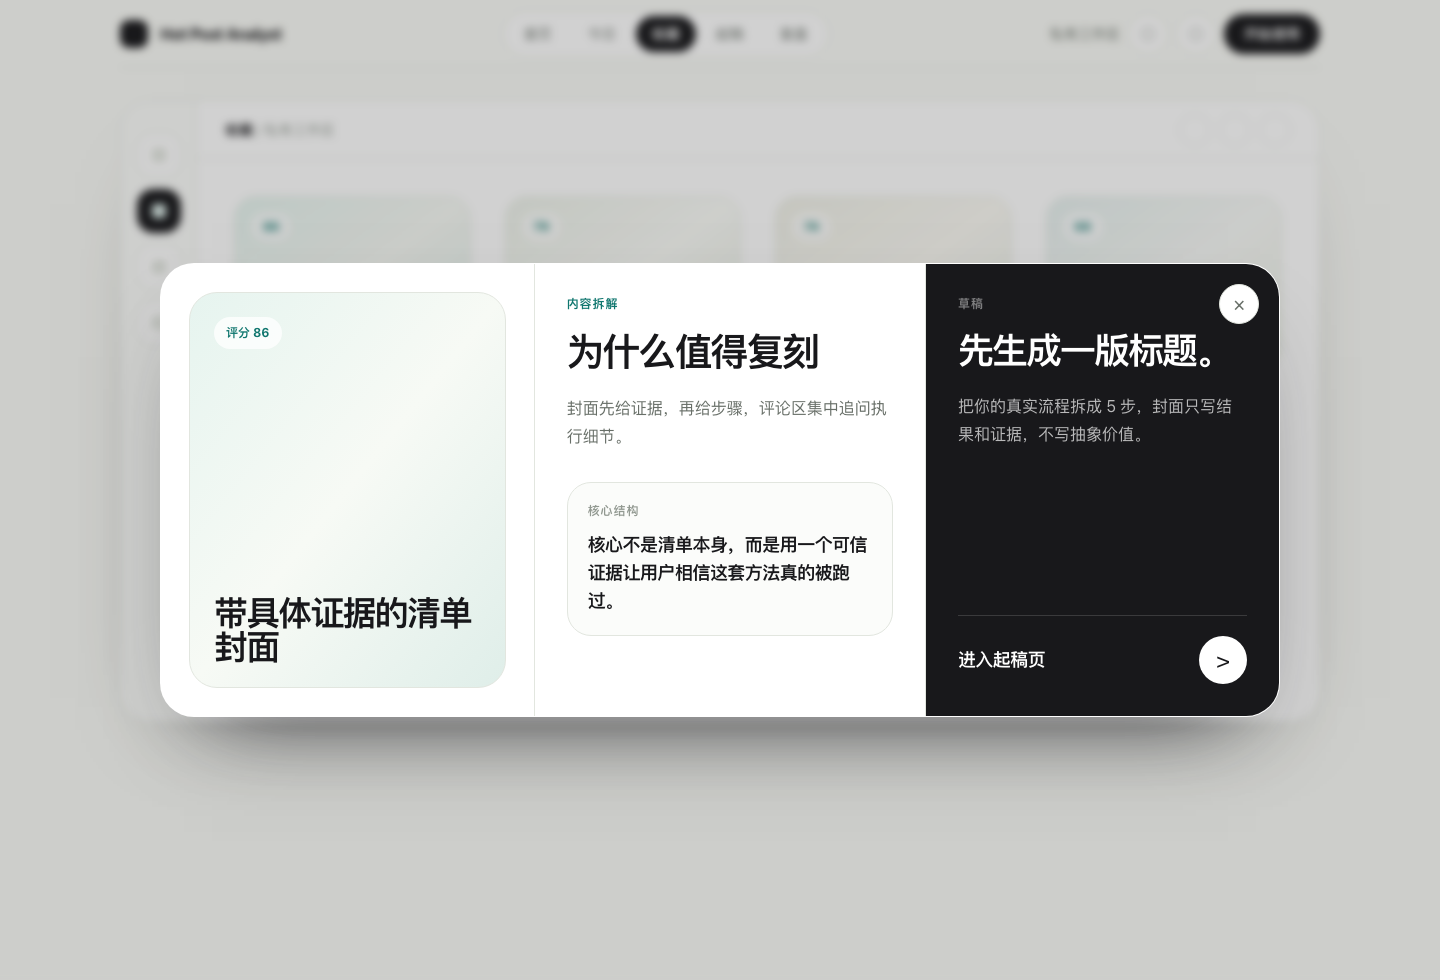
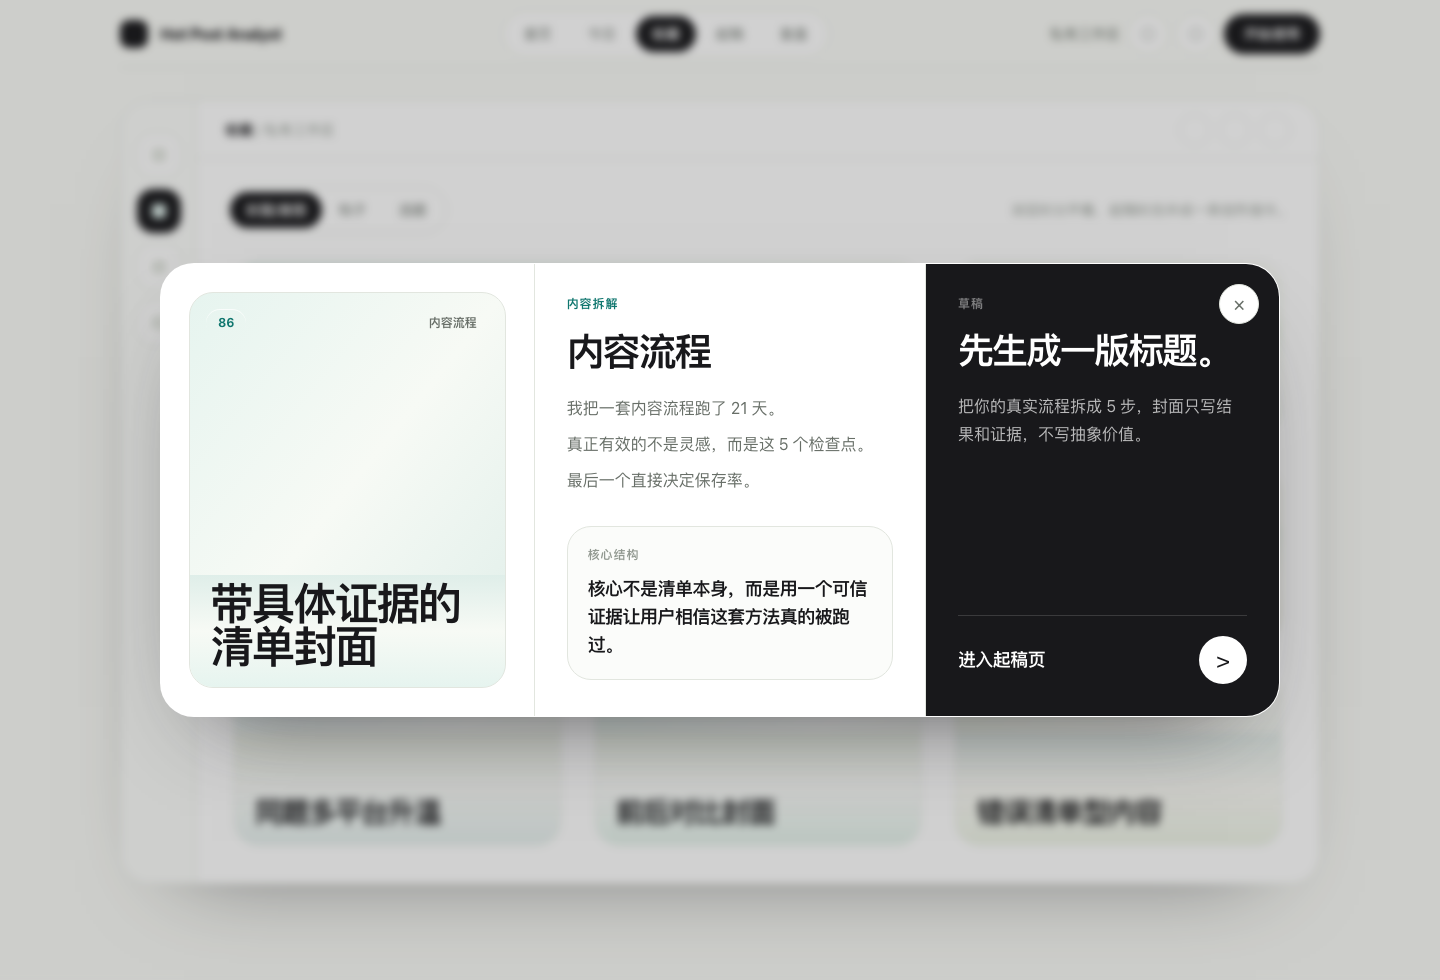
Add saved tri-view cover design

diff --git a/src/App.tsx b/src/App.tsx
@@ -5,11 +5,15 @@ type SavedPost = {
   id: string;
   score: string;
   title: string;
+  hookLines: string[];
+  topic: string;
+  topicCount: number;
   signal: string;
   content: string;
   draft: string;
   palette: string;
 };
+type SavedMode = 'cover' | 'hook' | 'topic';
 
 const views: Array<{ id: ViewId; label: string }> = [
   { id: 'landing', label: '首页' },
@@ -31,6 +35,9 @@ const savedPosts: SavedPost[] = [
     id: 'proof-list',
     score: '86',
     title: '带具体证据的清单封面',
+    hookLines: ['我把一套内容流程跑了 21 天。', '真正有效的不是灵感，而是这 5 个检查点。', '最后一个直接决定保存率。'],
+    topic: '内容流程',
+    topicCount: 7,
     signal: '封面先给证据，再给步骤，评论区集中追问执行细节。',
     content: '核心不是清单本身，而是用一个可信证据让用户相信这套方法真的被跑过。',
     draft: '把你的真实流程拆成 5 步，封面只写结果和证据，不写抽象价值。',
@@ -40,6 +47,9 @@ const savedPosts: SavedPost[] = [
     id: 'comment-loop',
     score: '79',
     title: '评论区反复问同一个问题',
+    hookLines: ['为什么你明明收藏很多，还是写不出来？', '问题不在素材少，而在没有把评论需求抽出来。', '先看这三个高频追问。'],
+    topic: '创作卡点',
+    topicCount: 5,
     signal: '同一个疑问出现多次，说明原帖没有解释清楚，适合补充型复刻。',
     content: '从评论里提炼用户卡点，用“为什么你一直做不出来”作为开头。',
     draft: '标题先写疑问，再用 3 个短段回答，最后给一个可执行检查项。',
@@ -49,6 +59,9 @@ const savedPosts: SavedPost[] = [
     id: 'contrast-cover',
     score: '74',
     title: '反差式封面标题组合',
+    hookLines: ['大多数人把标题写反了。', '先给错误动作，再给替代流程。', '这个结构比单纯讲技巧更容易被点开。'],
+    topic: '标题结构',
+    topicCount: 4,
     signal: '标题制造反差，封面负责给场景，适合改成自己的行业版本。',
     content: '不要复刻原话，保留“误区到正确动作”的结构就够了。',
     draft: '写 3 组反差标题：错误动作、真实原因、替代流程。',
@@ -58,6 +71,9 @@ const savedPosts: SavedPost[] = [
     id: 'cross-platform',
     score: '68',
     title: '同题多平台升温',
+    hookLines: ['同一个问题这周在两个平台都热了。', '这说明它不是偶发流量。', '先做一条轻量版本验证。'],
+    topic: '趋势选题',
+    topicCount: 6,
     signal: '同一题材在不同平台出现，说明需求不是偶发流量。',
     content: '先做轻量复刻，不需要完整长文，用短帖验证保存率。',
     draft: '把原题变成“本周我会怎么做”的个人流程，先发短版本。',
@@ -67,6 +83,9 @@ const savedPosts: SavedPost[] = [
     id: 'before-after',
     score: '82',
     title: '前后对比封面',
+    hookLines: ['同样的内容，换一个对比方式就更容易保存。', '用户要看的不是过程，是变化。', '把前后差异写到第一屏。'],
+    topic: '封面表达',
+    topicCount: 8,
     signal: '用户能一眼看到变化，适合承载工具、流程、复盘类内容。',
     content: '对比越具体，越容易被保存。避免“变好”这种模糊承诺。',
     draft: '封面写前后差异，正文只解释造成变化的 3 个动作。',
@@ -76,6 +95,9 @@ const savedPosts: SavedPost[] = [
     id: 'mistake-thread',
     score: '71',
     title: '错误清单型内容',
+    hookLines: ['你以为是在做内容，其实是在重复 5 个错误。', '每一个错误都会降低转化。', '先改第 2 个。'],
+    topic: '避坑清单',
+    topicCount: 3,
     signal: '读者容易代入自己的问题，评论区会补充更多反例。',
     content: '这类内容适合做成“少做什么”，不适合写成长篇教学。',
     draft: '列出 5 个常见错误，每条只配一个修正动作。',
@@ -289,21 +311,163 @@ function TodayPage() {
   );
 }
 
-function ImageTile({ post, onClick }: { post: SavedPost; onClick: (post: SavedPost) => void }) {
+function CoverArtwork({ featured = false, index, post }: { featured?: boolean; index: number; post: SavedPost }) {
+  const accentBlocks = [
+    'right-5 top-20 h-20 w-24 rounded-[24px] bg-accent/12',
+    'right-5 top-20 h-28 w-14 rounded-full bg-ink/8',
+    'right-5 top-20 h-16 w-28 rounded-[18px] bg-white/48',
+    'right-5 top-20 h-24 w-20 rounded-[28px] bg-accent/10',
+    'right-5 top-20 h-16 w-16 rounded-full bg-white/58',
+    'right-5 top-20 h-24 w-24 rounded-[22px] border border-white/70',
+  ];
+
+  return (
+    <div className={`relative h-full overflow-hidden rounded-[24px] border border-line bg-gradient-to-br ${post.palette}`}>
+      <div className="absolute inset-x-4 top-4 flex items-center justify-between gap-3">
+        <span className="rounded-full bg-white/82 px-3 py-1.5 text-xs font-bold text-accent shadow-[inset_0_1px_0_rgba(255,255,255,0.72)]">
+          {post.score}
+        </span>
+        <span className="max-w-[120px] truncate rounded-full bg-white/48 px-3 py-1.5 text-xs font-bold text-muted">{post.topic}</span>
+      </div>
+
+      <div className={`absolute ${accentBlocks[index % accentBlocks.length]}`} aria-hidden="true" />
+      <div className="absolute left-5 top-[42%] h-px w-16 bg-ink/12" aria-hidden="true" />
+      <div className="absolute bottom-0 left-0 right-0 h-28 bg-gradient-to-t from-white/62 to-white/0" aria-hidden="true" />
+
+      <div className="absolute bottom-5 left-5 right-5">
+        <h3
+          className={[
+            'max-w-[300px] font-bold leading-[0.98] tracking-[-0.055em] text-ink',
+            featured ? 'text-[36px] sm:text-[44px]' : 'text-[24px] sm:text-[28px]',
+          ].join(' ')}
+        >
+          {post.title}
+        </h3>
+      </div>
+    </div>
+  );
+}
+
+function ImageTile({
+  featured = false,
+  index,
+  post,
+  onClick,
+}: {
+  featured?: boolean;
+  index: number;
+  post: SavedPost;
+  onClick: (post: SavedPost) => void;
+}) {
   return (
     <button
       aria-label={`打开 ${post.title}`}
-      className="group aspect-[4/3] overflow-hidden rounded-[26px] border border-transparent bg-white p-2 text-left transition duration-300 ease-out hover:-translate-y-1 hover:scale-[1.018] hover:border-accent/45 hover:shadow-[0_22px_45px_-34px_rgba(24,24,27,0.55)] focus:outline-none focus-visible:border-accent focus-visible:ring-4 focus-visible:ring-accent/10 active:translate-y-0 active:scale-[0.99]"
+      className={[
+        'group overflow-hidden rounded-[28px] border border-transparent bg-white p-2 text-left transition duration-300 ease-out',
+        'hover:-translate-y-1 hover:scale-[1.018] hover:border-accent/45 hover:shadow-[0_22px_45px_-34px_rgba(24,24,27,0.55)]',
+        'focus:outline-none focus-visible:border-accent focus-visible:ring-4 focus-visible:ring-accent/10 active:translate-y-0 active:scale-[0.99]',
+        featured ? 'col-span-2 row-span-2 h-auto md:col-span-2' : 'h-[178px] md:h-auto',
+      ].join(' ')}
       onClick={() => onClick(post)}
       type="button"
     >
-      <div className={`relative h-full rounded-[22px] border border-line bg-gradient-to-br ${post.palette}`}>
-        <div className="absolute left-4 top-4 rounded-full bg-white/75 px-3 py-1.5 text-xs font-bold text-accent shadow-[inset_0_1px_0_rgba(255,255,255,0.7)]">
-          {post.score}
-        </div>
-        <div className="absolute bottom-4 left-4 right-4 h-14 rounded-2xl bg-white/62 shadow-[inset_0_1px_0_rgba(255,255,255,0.7)] transition group-hover:bg-white/78" />
+      <CoverArtwork featured={featured} index={index} post={post} />
+    </button>
+  );
+}
+
+function CoverWall({ onClick }: { onClick: (post: SavedPost) => void }) {
+  return (
+    <div className="grid auto-rows-[178px] grid-cols-2 gap-4 md:grid-cols-3 md:auto-rows-[190px]">
+      {savedPosts.map((post, index) => (
+        <ImageTile featured={index === 0} index={index} key={post.id} post={post} onClick={onClick} />
+      ))}
+    </div>
+  );
+}
+
+function ModeSwitch({ mode, onModeChange }: { mode: SavedMode; onModeChange: (mode: SavedMode) => void }) {
+  const modes: Array<{ id: SavedMode; label: string }> = [
+    { id: 'cover', label: '封面/首图' },
+    { id: 'hook', label: '钩子' },
+    { id: 'topic', label: '选题' },
+  ];
+
+  return (
+    <div className="flex w-fit rounded-full border border-line bg-white p-1">
+      {modes.map((item) => (
+        <button
+          aria-pressed={mode === item.id}
+          className={[
+            'min-h-9 rounded-full px-4 text-sm transition active:translate-y-px',
+            mode === item.id ? 'bg-ink font-semibold text-white' : 'text-muted hover:text-ink',
+          ].join(' ')}
+          key={item.id}
+          onClick={() => onModeChange(item.id)}
+          type="button"
+        >
+          {item.label}
+        </button>
+      ))}
+    </div>
+  );
+}
+
+function HookCard({ post, onClick }: { post: SavedPost; onClick: (post: SavedPost) => void }) {
+  return (
+    <button
+      aria-label={`查看 ${post.title} 的钩子拆解`}
+      className="group rounded-[28px] border border-line bg-[#fbfcfa] p-5 text-left transition duration-300 ease-out hover:-translate-y-1 hover:border-accent/45 hover:bg-white hover:shadow-[0_22px_45px_-34px_rgba(24,24,27,0.55)] focus:outline-none focus-visible:border-accent focus-visible:ring-4 focus-visible:ring-accent/10 active:translate-y-0"
+      onClick={() => onClick(post)}
+      type="button"
+    >
+      <div className="flex items-center justify-between">
+        <span className="rounded-full bg-accentSoft px-3 py-1.5 text-xs font-bold text-accent">{post.score}</span>
+        <span className="text-xs font-bold uppercase tracking-[0.08em] text-soft">{post.topic}</span>
+      </div>
+      <h3 className="mt-5 text-2xl font-bold leading-tight tracking-[-0.04em] text-ink">{post.title}</h3>
+      <div className="mt-5 space-y-2 text-sm leading-6 text-muted">
+        {post.hookLines.map((line) => (
+          <p key={line}>{line}</p>
+        ))}
       </div>
     </button>
+  );
+}
+
+function TopicCard({ topic, posts, onClick }: { topic: string; posts: SavedPost[]; onClick: (post: SavedPost) => void }) {
+  const bestPost = posts.reduce((best, item) => (Number(item.score) > Number(best.score) ? item : best), posts[0]);
+
+  return (
+    <button
+      aria-label={`查看 ${topic} 选题簇`}
+      className="rounded-[30px] border border-line bg-[#fbfcfa] p-6 text-left transition duration-300 ease-out hover:-translate-y-1 hover:border-accent/45 hover:bg-white hover:shadow-[0_22px_45px_-34px_rgba(24,24,27,0.55)] focus:outline-none focus-visible:border-accent focus-visible:ring-4 focus-visible:ring-accent/10 active:translate-y-0"
+      onClick={() => onClick(bestPost)}
+      type="button"
+    >
+      <div className="flex items-start justify-between gap-4">
+        <h3 className="text-[34px] font-bold leading-none tracking-[-0.055em] text-ink">{topic}</h3>
+        <span className="rounded-full bg-accentSoft px-3 py-1.5 text-xs font-bold text-accent">{bestPost.topicCount} 条</span>
+      </div>
+      <p className="mt-8 text-sm font-bold uppercase tracking-[0.08em] text-soft">最高评分 {bestPost.score}</p>
+      <p className="mt-3 text-lg font-bold leading-7 tracking-[-0.03em] text-ink">{bestPost.title}</p>
+      <p className="mt-5 text-sm leading-6 text-muted">下一步：用这个选题，复刻最高分封面结构，改写前三行钩子。</p>
+    </button>
+  );
+}
+
+function TopicView({ onClick }: { onClick: (post: SavedPost) => void }) {
+  const groups = savedPosts.reduce<Record<string, SavedPost[]>>((result, post) => {
+    result[post.topic] = [...(result[post.topic] ?? []), post];
+    return result;
+  }, {});
+
+  return (
+    <div className="grid gap-4 md:grid-cols-2 xl:grid-cols-3">
+      {Object.entries(groups).map(([topic, posts]) => (
+        <TopicCard key={topic} onClick={onClick} posts={posts} topic={topic} />
+      ))}
+    </div>
   );
 }
 
@@ -329,16 +493,19 @@ function SavedDetailOverlay({
         </button>
 
         <div className="p-5 md:p-7">
-          <div className={`flex aspect-[4/5] flex-col justify-between rounded-[28px] border border-line bg-gradient-to-br p-6 ${post.palette}`}>
-            <span className="w-fit rounded-full bg-white/75 px-3 py-2 text-xs font-bold text-accent">评分 {post.score}</span>
-            <h2 className="max-w-[260px] text-[34px] font-bold leading-none tracking-[-0.055em] text-ink">{post.title}</h2>
+          <div className="aspect-[4/5]">
+            <CoverArtwork featured index={0} post={post} />
           </div>
         </div>
 
         <div className="border-y border-line p-6 md:border-x md:border-y-0 md:p-8">
           <p className="text-xs font-extrabold uppercase tracking-[0.08em] text-accent">内容拆解</p>
-          <h3 className="mt-5 text-[38px] font-bold leading-none tracking-[-0.055em] text-ink">为什么值得复刻</h3>
-          <p className="mt-6 text-base leading-7 text-muted">{post.signal}</p>
+          <h3 className="mt-5 text-[38px] font-bold leading-none tracking-[-0.055em] text-ink">{post.topic}</h3>
+          <div className="mt-6 space-y-2 text-base leading-7 text-muted">
+            {post.hookLines.map((line) => (
+              <p key={line}>{line}</p>
+            ))}
+          </div>
           <div className="mt-8 rounded-3xl border border-line bg-[#fbfcfa] p-5">
             <p className="text-xs font-bold uppercase tracking-[0.08em] text-soft">核心结构</p>
             <p className="mt-3 text-lg font-bold leading-7 tracking-[-0.03em] text-ink">{post.content}</p>
@@ -368,18 +535,46 @@ function SavedDetailOverlay({
 
 function SavedPage({ onDraft }: { onDraft: (post: SavedPost) => void }) {
   const detailFromQuery = new URLSearchParams(window.location.search).get('detail');
+  const modeFromQuery = new URLSearchParams(window.location.search).get('mode');
+  const [mode, setMode] = useState<SavedMode>(modeFromQuery === 'hook' || modeFromQuery === 'topic' ? modeFromQuery : 'cover');
   const [selectedPost, setSelectedPost] = useState<SavedPost | null>(
     detailFromQuery ? savedPosts.find((post) => post.id === detailFromQuery) ?? null : null,
   );
 
+  function handleModeChange(nextMode: SavedMode) {
+    setMode(nextMode);
+    const params = new URLSearchParams(window.location.search);
+    params.set('view', 'saved');
+    if (nextMode === 'cover') {
+      params.delete('mode');
+    } else {
+      params.set('mode', nextMode);
+    }
+    params.delete('detail');
+    window.history.replaceState(null, '', `${window.location.pathname}?${params.toString()}`);
+  }
+
   return (
     <>
       <div className="p-5 sm:p-7">
-        <div className="grid grid-cols-2 gap-4 md:grid-cols-3 xl:grid-cols-4">
-          {savedPosts.map((post) => (
-            <ImageTile key={post.id} post={post} onClick={setSelectedPost} />
-          ))}
+        <div className="mb-5 flex items-center justify-between gap-4">
+          <ModeSwitch mode={mode} onModeChange={handleModeChange} />
+          <p className="hidden text-sm text-soft md:block">浏览时分开看，起稿时合并成一条创作指令。</p>
         </div>
+
+        {mode === 'cover' ? (
+          <CoverWall onClick={setSelectedPost} />
+        ) : null}
+
+        {mode === 'hook' ? (
+          <div className="grid gap-4 md:grid-cols-2 xl:grid-cols-3">
+            {savedPosts.map((post) => (
+              <HookCard key={post.id} post={post} onClick={setSelectedPost} />
+            ))}
+          </div>
+        ) : null}
+
+        {mode === 'topic' ? <TopicView onClick={setSelectedPost} /> : null}
       </div>
       {selectedPost ? <SavedDetailOverlay onClose={() => setSelectedPost(null)} onDraft={onDraft} post={selectedPost} /> : null}
     </>
